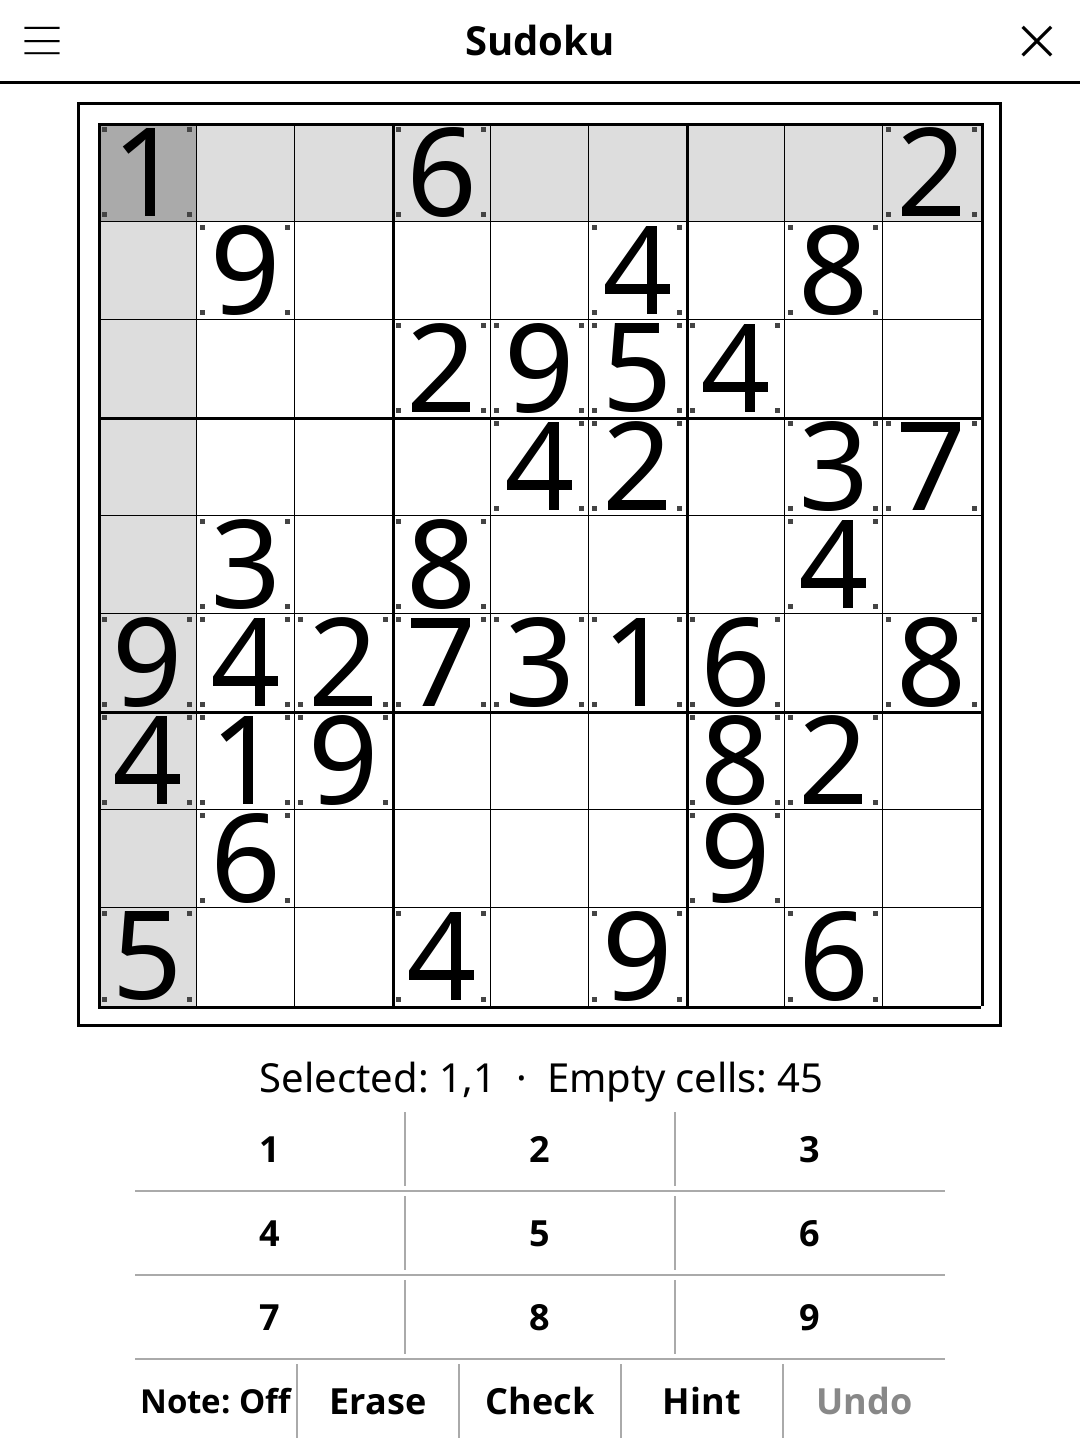
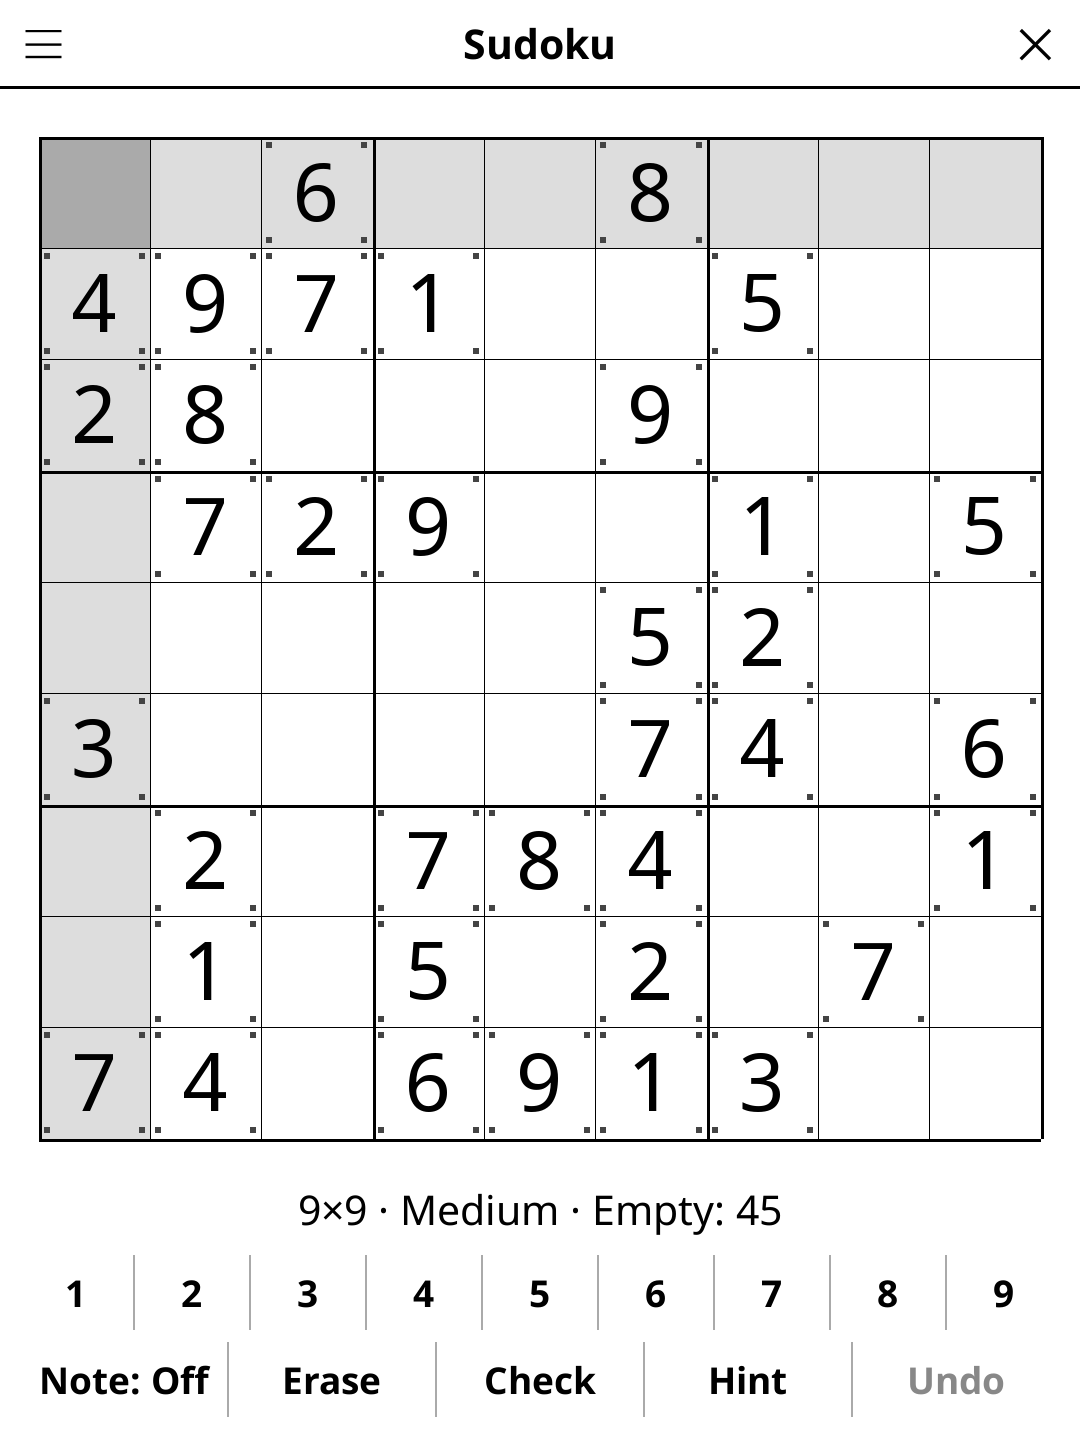
release: 2.5.0 -- redesigned screen, harmonised menu, New game at round end
Screen redesign (full-width action bar, unified pad, status line, larger
board), harmonised title-bar menu, and a "New game" button once the round
is over. See CHANGELOG.md.

diff --git a/CHANGELOG.md b/CHANGELOG.md
@@ -2,6 +2,34 @@
 
 All notable changes to this project will be documented in this file.
 
+## [2.5.0] - 2026-10-30
+
+### Changed
+- Redesigned play screen (sudoku-common 1.5.0): the board is larger, filling
+  the room the controls leave, with the digit pad on one even row (two for
+  12×12 and 16×16) and Note / Erase / Check / Hint / Undo in a full-width bar
+  under the status line.
+- The status line reads "9×9 · Medium · Empty: 45" and wraps in landscape
+  instead of being cut off.
+- The title-bar menu follows the order every game uses: New game, "Size: …",
+  "Difficulty: …", "Show solution" / "Hide solution", Daily Challenge, Rules
+  (it read "Grid: …", "Diff: …" and "Show result" / "Hide result", with Daily
+  Challenge second).
+- Once the puzzle is solved, the tool bar shows "New game" in place of
+  Note/Erase/Check/Hint/Undo; an Undo that un-solves the grid brings the tools
+  back.
+- The rules now cover the other grid sizes (4×4 to 16×16) and the letters A
+  to G that stand for 10 to 16.
+
+### Fixed
+- Digits overflowed their cells: the shared font fit accepted every size.
+  Digits and notes now fit their cell on every screen.
+- 16×16 notes were clipped: their font was too big for the tiny note cells,
+  and box lines covered the first row of notes. Notes are now laid out inside
+  the grid lines.
+- "New game" in the Daily Challenge replaced today's puzzle with a random
+  one. It now leaves the challenge for the regular game.
+
 ## [2.4.1] - 2026-10-02
 
 ### Fixed

diff --git a/README.md b/README.md
@@ -44,8 +44,8 @@ Fill the 9×9 grid with digits 1–9. Each row, each column, and each 3×3 box m
 | Check progress | Tap **Check** |
 | Get a hint | Tap **Hint** (tap again to go deeper) |
 | New game | Tap **New game** |
-| Change grid size | Tap **Grid** |
-| Change difficulty | Tap **Diff** |
+| Change grid size | Tap **Size** |
+| Change difficulty | Tap **Difficulty** |
 | Show rules | Tap **Rules** |
 
 ## License
